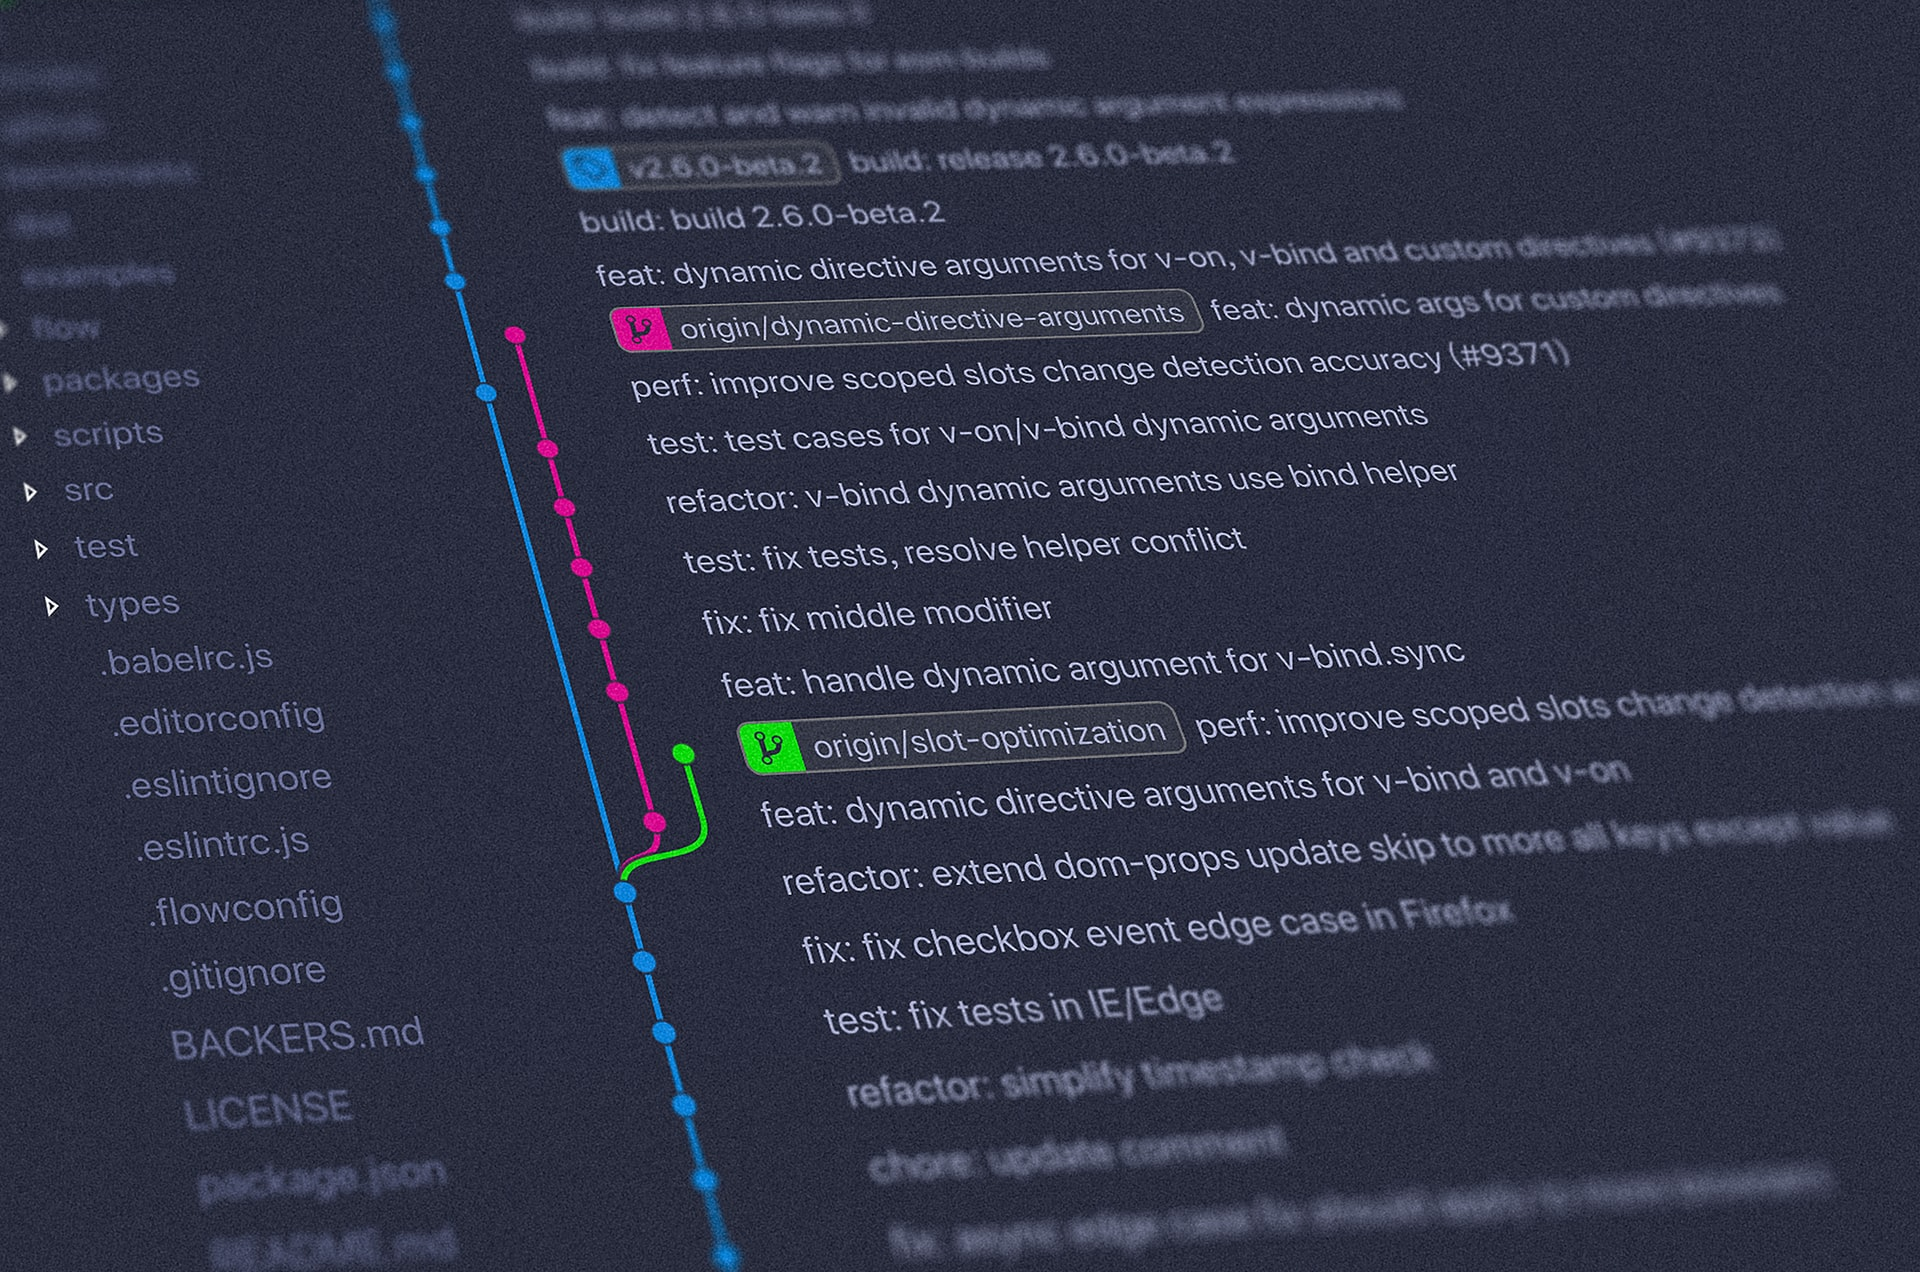
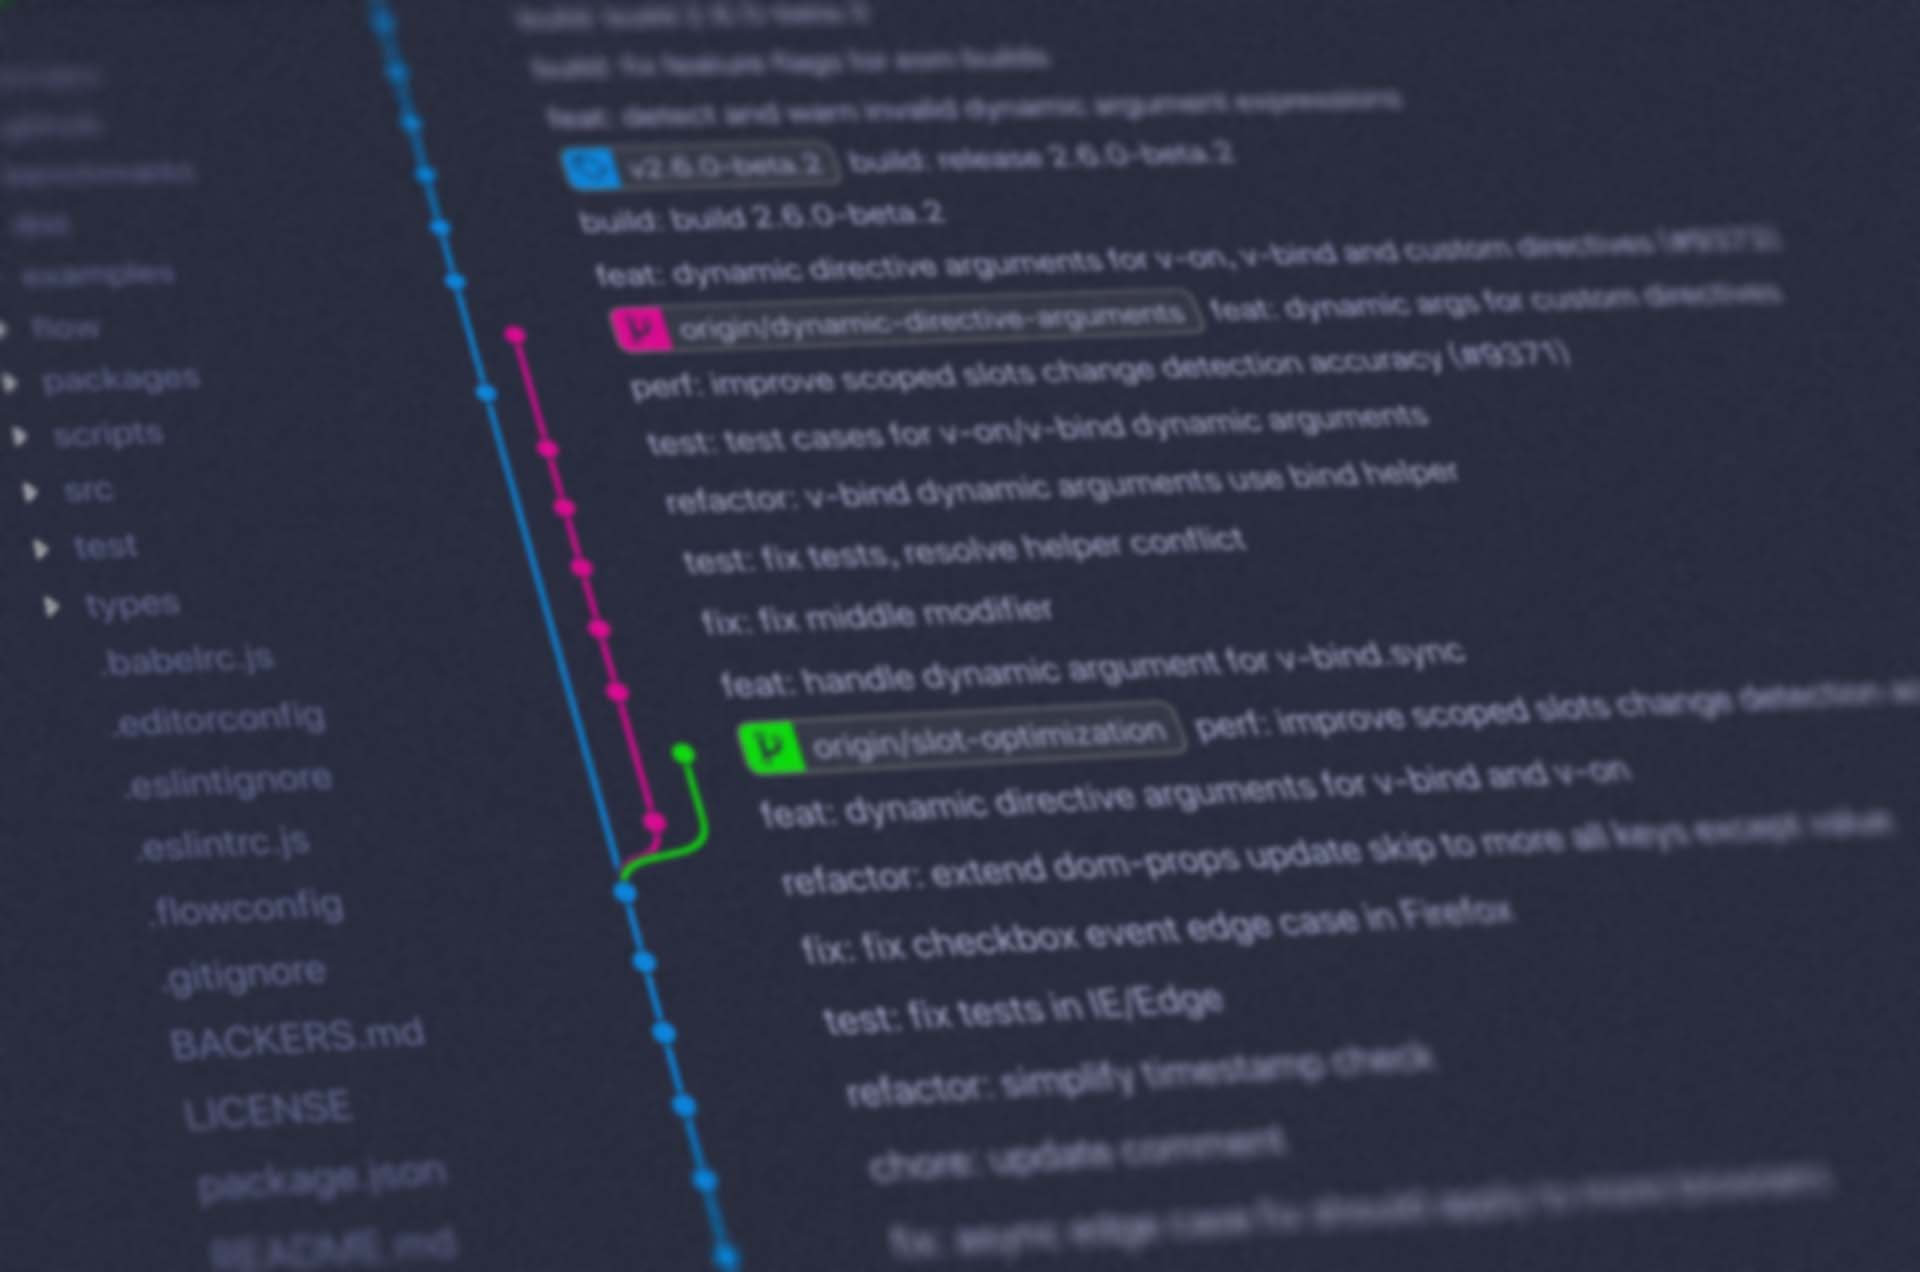
Remove blur effect in css
Add blur effect in jpg image

diff --git a/src/components/Jumbotron/index.tsx b/src/components/Jumbotron/index.tsx
@@ -3,27 +3,25 @@ import styled from 'styled-components';
 import background from '../../assets/images/background.jpg';
 
 const JumbotronContainer = styled.div`
-  min-height: calc(100vh - 4.9em);
-  min-width: 100%;
+  height: calc(100vh - 4.9em);
+  width: 100vw;
 `;
 
 const BackgroundStyle = styled.div`
-  position: fixed;
+  position: absolute;
   top: 0;
   left: 0;
-  width: 100%;
-  height: 100%;
+  min-height: 100%;
+  min-width: 100%;
   z-index: -1;
   background-image: url(${background});
   background-repeat: no-repeat;
   background-size: cover;
-  filter: blur(3px);
-  transform: scale(1.02);
 `;
 
 const Jumbotron: React.FC = () => {
   return (
-    <JumbotronContainer className="flex min-h-full justify-center items-center bg-fixed">
+    <JumbotronContainer className="flex justify-center items-center bg-fixed">
       <p className="text-5xl text-center text-white">
         We Make <span className="font-bold">IF</span> to <span className="font-bold">Reality</span>,{' '}
         <span className="font-bold">Dream</span> to <span className="font-bold">Action</span>
